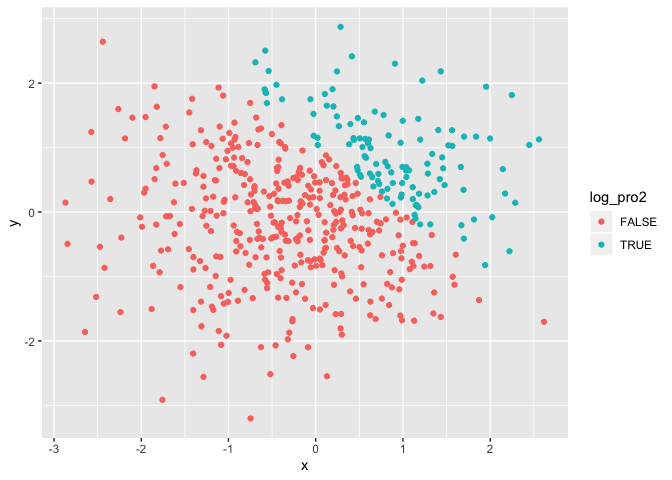
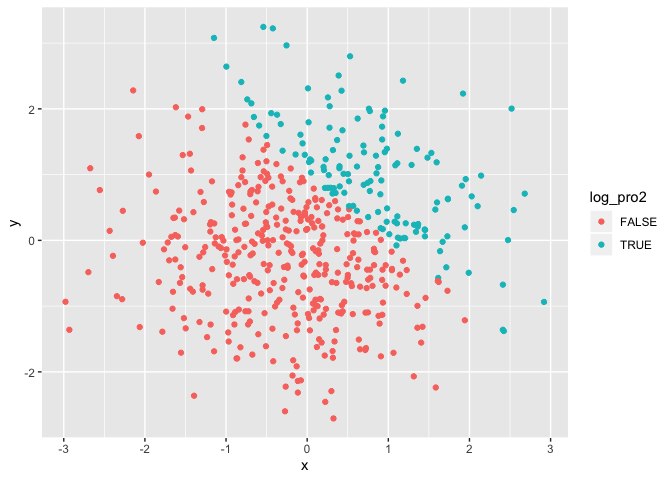
make some changes to Problem 1 and 2

diff --git a/p8105_hm1_xw2676.md b/p8105_hm1_xw2676.md
@@ -34,13 +34,13 @@ hm1_df = tibble(
 mean(hm1_df$vec_numeric)
 ```
 
-    ## [1] 0.09196931
+    ## [1] -0.1289506
 
 ``` r
 mean(hm1_df$vec_logical)
 ```
 
-    ## [1] 0.5
+    ## [1] 0.375
 
 ``` r
 mean(hm1_df$vec_char)
@@ -78,8 +78,8 @@ vector. The factor vector is changed to numeric vector by its
 as.numeric(vec_logical) * vec_numeric
 ```
 
-    ## [1] 0.5194198 1.1373403 0.0000000 0.0000000 0.0000000 0.9851085 0.0000000
-    ## [8] 0.6517097
+    ## [1] 0.0000000 0.0000000 0.0000000 1.5897243 0.0000000 0.0000000 0.1264157
+    ## [8] 0.5261217
 
 ``` r
 as.factor(vec_logical) * vec_numeric
@@ -94,8 +94,8 @@ as.factor(vec_logical) * vec_numeric
 as.numeric(as.factor(vec_logical)) * vec_numeric
 ```
 
-    ## [1]  1.0388396  2.2746806 -0.1735445 -1.0630986 -0.3754976  1.9702170
-    ## [7] -0.9456831  1.3034193
+    ## [1] -0.53326208 -1.81480786 -0.04062643  3.17944852 -0.58740000 -0.29777046
+    ## [7]  0.25283144  1.05224341
 
 \#Problem 2 Create a data frame
 
@@ -114,13 +114,13 @@ Write a short description of your vector
 
 the size of the dataset is row = 500 and col = 5
 
-the mean of x is -0.1070862
+the mean of x is -0.0212669
 
-the median of x is -0.0869974
+the median of x is 0.0059844
 
-the standard deviation of x is 1.021257
+the standard deviation of x is 1.0060607
 
-the proportion of cases for which x + y \> 1 is 0.002
+the proportion of cases for which x + y \> 1 is 0.266
 
 ``` r
 #Make a scatterplot
